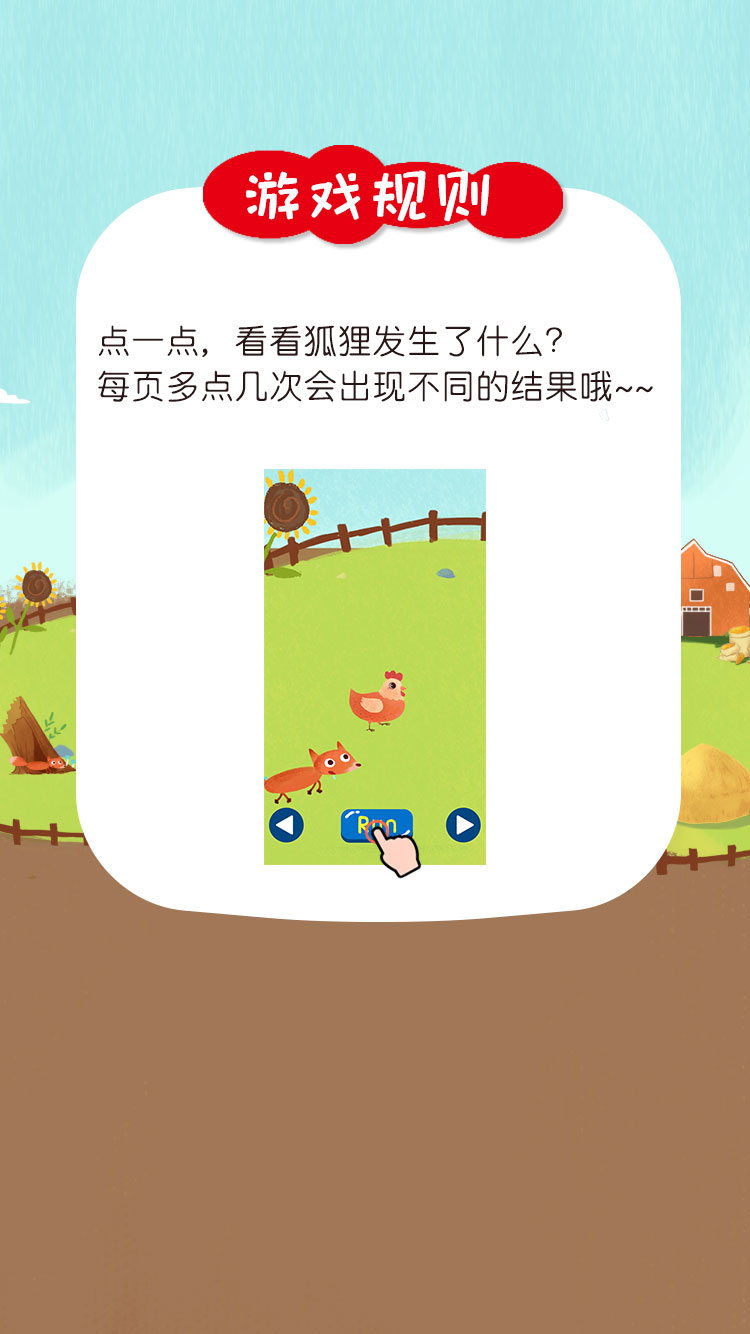
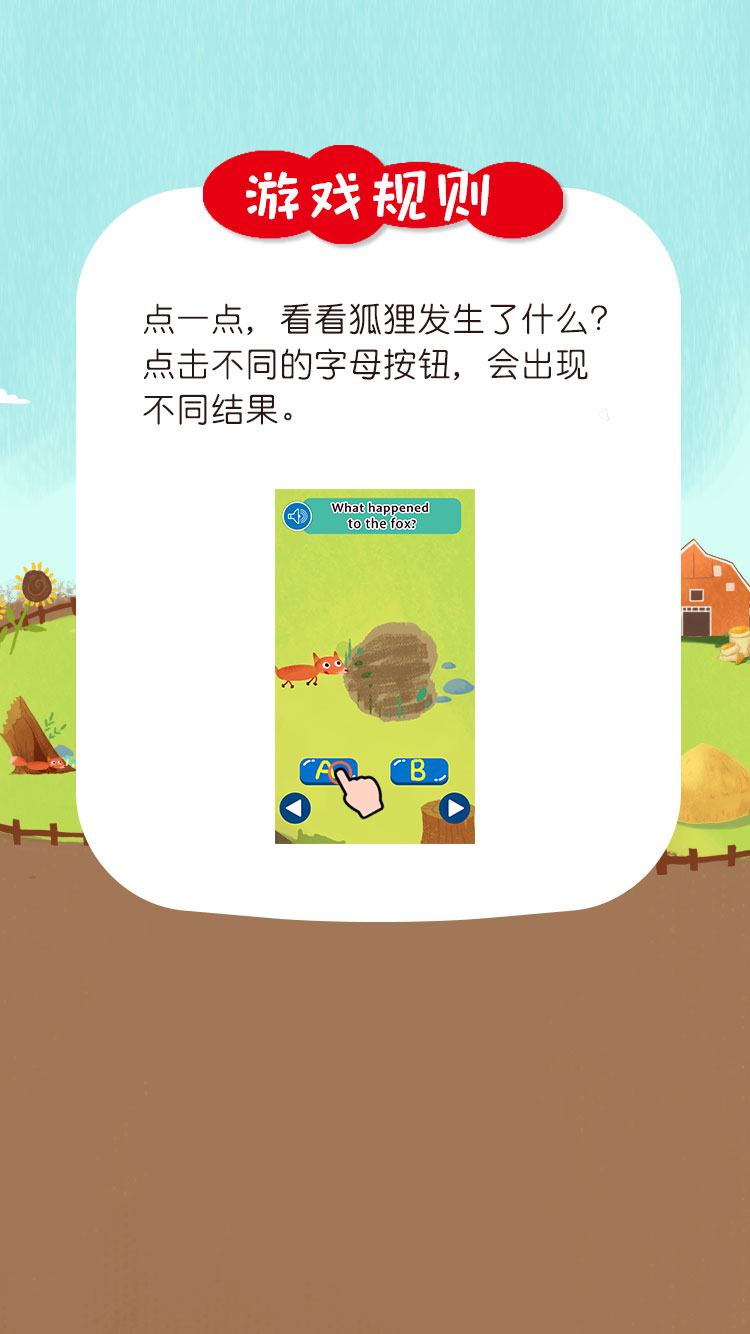
tenth commit

Changed region(s): [[0.1227, 0.2151, 0.828, 0.6762]]

diff --git a/js/index.js b/js/index.js
@@ -106,20 +106,7 @@ function toHome() {
 }
 
 //page02
-function wenhao() {
-    setTimeout(function(){
-        $('.wenhao').hide();
-    },0)
 
-    $('.page02fox').addClass('run_fox')
-    var random = Math.floor(Math.random()*2)
-    if(random==0){
-        drop()
-    }else if(random==1){
-        $('.page02fox').css({"left":"-3.2rem","bottom":"12rem"});
-        goout();
-    }
-}
 function drop() {
     $('.page02fox').hide();
     $('.dialog3').hide();
@@ -137,6 +124,7 @@ function goout() {
     $('.page02dropfox').hide();
     audio1.src = "audio/S3the fox went around the puddle.mp3";
     audio1.play();
+    $('.page02fox').addClass('run_fox');
     $('.page02fox').fadeIn('slow',function () {
         $('.page02fox').animate({left:'-1.5rem'},1000,function () {
             $('.page02fox').animate({bottom:'6rem'},1500,function () {
@@ -171,20 +159,38 @@ function toP3() {
         $('.page02fox').css({ "left":"-3.2rem","bottom":"12rem"})
     },1000)
 }
+$('.P2BtnA').click(function () {
+    $('.mock').css({"display":"block"});
+    drop();
+    setTimeout(function () {
+        $('.page02fox').show();
+        $('.page02fox').css({"left":"-3.2rem"});
+        $('.page02fox').removeClass('run_fox');
+        $('.dialog2').hide();
+        $('p1dialog1').show();
+        $('.page02dropfox').hide();
+        $('.mock').css({"display":"none"});
+    },3000)
+
+})
+$('.P2BtnB').click(function () {
+    $('.mock').css({"display":"block"});
+    goout();
+    setTimeout(function () {
+        $('.page02fox').show();
+        $('.page02fox').css({"left":"-3.2rem","bottom":"12rem"});
+        $('.page02fox').removeClass('run_fox');
+        $('.dialog3').hide();
+        $('.p1dialog1').show();
+        $('.page02dropfox').hide();
+        $('.mock').css({"display":"none"});
+    },5000)
+})
+
+
 
 //page03
-function p3wenhao() {
-    setTimeout(function () {
-        $('.wenhao').hide();
-    },0)
-    var random = Math.floor(Math.random()*2)
-    if(random==0){
-        gucang()
-    }else if(random==1){
-        $('.page03fox').css({"left":"-3.2rem","bottom":"8rem"});
-        leave();
-    }
-}
+
 function gucang() {
     $('.page03fox').addClass('run_fox');
     $('.page03fox').hide();
@@ -249,23 +255,35 @@ function toP4() {
         $('.fengfangfox2').hide();
     },1000)
 }
+$('.P3BtnA').click(function () {
+    $('.mock').css({"display":"block"});
+    gucang();
+    setTimeout(function () {
+        $('.page03fox').show();
+        $('.page03fox').css({"left":"-3.2rem"},{"bottom":"8rem"});
+        $('.page03fox').removeClass('run_fox');
+        $('.dialog5').hide();
+        $('.dialog1').show();
+        $('.gucangfox').hide();
+        $('.mock').css({"display":"none"});
+    },3000)
+
+})
+$('.P3BtnB').click(function () {
+    $('.mock').css({"display":"block"});
+    leave();
+    setTimeout(function () {
+        $('.page03fox').show();
+        $('.page03fox').css({"left":"-3.2rem","bottom":"8rem"});
+        $('.page03fox').removeClass('run_fox');
+        $('.dialog6').hide();
+        $('.dialog1').show();
+        $('.gucangfox').hide();
+        $('.mock').css({"display":"none"});
+    },5000)
+})
 
 //page4
-function p4wenhao() {
-    $('.fengfangwanzheng').hide();
-    $('.fengfangfox').hide();
-    $('.fengfangfox2').hide();
-    setTimeout(function () {
-        $('.wenhao').hide();
-    },0)
-    var random = Math.floor(Math.random()*2)
-    if(random==0){
-        fengfang()
-    }else if(random==1){
-        $('.page04fox').css({"right":"-4.7rem","top":"12rem"});
-        leaveout();
-    }
-}
 
 function fengfang() {
     $('.qiantui').hide();
@@ -275,6 +293,7 @@ function fengfang() {
     $('.dialog1').hide();
     $('.dialog8').hide();
     $('.fengfangwanzheng').show();
+    $('.fengfangfox2').hide();
     $('.fengfangfox2').show().animate({"right":"-1.5rem"},700,function () {
         $('.fengfangwanzheng').hide();
         $('.fengfangfox').show();
@@ -298,7 +317,7 @@ function leaveout() {
     audio1.src = "audio/S7the fox was under the beehive.mp3";
     audio1.play();
     $('.page04fox').fadeIn('slow',function () {
-        $('.page04fox').animate({"right":"3.3rem","top":"13.5rem"},1500).removeClass('run_Left_fox');
+        $('.page04fox').animate({"right":"3.3rem","top":"14.5rem"},1500).removeClass('run_Left_fox');
     })
     setTimeout(function () {
         $('.wenhao').show();
@@ -321,9 +340,51 @@ function backP3() {
 
     },1000)
 }
+
+$('.P4BtnA').click(function () {
+    $('.mock').css({"display":"block"});
+    fengfang();
+    setTimeout(function () {
+        $('.fengfangfox2').hide();
+        $('.page04fox').show();
+        $('.fengfangwanzheng').show();
+        $('.page04fox').css({"right":"-4.7rem"},{"bottom":"12rem"});
+        $('.page04fox').removeClass('run_Left_fox');
+        $('.dialog7').hide();
+        $('.dialog1').show();
+        $('.fengfangfox').hide();
+        $('.qiantui').hide();
+        $('.houtui').hide();
+        $('.fengfang').hide()
+        $('.mock').css({"display":"none"});
+    },3000)
+
+})
+$('.P4BtnB').click(function () {
+    $('.mock').css({"display":"block"});
+    leaveout();
+    setTimeout(function () {
+        $('.fengfangfox2').hide();
+        $('.page04fox').show();
+        $('.page04fox').css({"right":"-4.7rem"},{"bottom":"12rem"});
+        $('.fengfangwanzheng').show();
+        $('.page04fox').removeClass('run_Left_fox');
+        $('.dialog8').hide();
+        $('.dialog1').show();
+        $('.fengfangfox').hide();
+        $('.qiantui').hide();
+        $('.houtui').hide();
+        $('.fengfang').hide()
+        $('.fengfangfox').hide();
+        $('.mock').css({"display":"none"});
+    },4000)
+})
+
 function toEnd() {
     document.getElementsByClassName('bigbox')[0].style.marginTop = -aTop *6/ (aWidth / 16) + "rem";
     $('.smile').addClass("smiling-animate");
+    $("#audio1").attr("src", "http://live.babyfs.cn/web/H5/common/audio/finish0.mp3");
+    audio1.play();
 }
 
 $('.p1dialog1').click(function () {

diff --git a/index.html b/index.html
@@ -69,7 +69,10 @@
                     <img src="images/dialog3.png" alt="" class="dialog3">
                     <img src="images/BtnLeft.png" alt="" onclick="backP1()">
                     <img src="images/BtnRight.png" alt="" onclick="toP3()">
-                    <img src="images/BtnWenhao.png" alt="" class="wenhao" onclick="wenhao()">
+                    <!--<img src="images/BtnWenhao.png" alt="" class="wenhao" onclick="wenhao()">-->
+                    <img src="images/BthA.png" alt="" class="P2BtnA">
+                    <img src="images/BtnB.png" alt="" class="P2BtnB">
+                    <span class="mock"></span>
                 </li>
             </ul>
         </div>
@@ -87,7 +90,10 @@
                     <img src="images/dialog6.png" alt="" class="dialog6">
                     <img src="images/BtnLeft.png" alt="" onclick="backP2()">
                     <img src="images/BtnRight.png" alt="" onclick="toP4()">
-                    <img src="images/BtnWenhao.png" alt="" class="wenhao" onclick="p3wenhao()">
+                    <!--<img src="images/BtnWenhao.png" alt="" class="wenhao" onclick="p3wenhao()">-->
+                    <img src="images/BthA.png" alt="" class="P3BtnA">
+                    <img src="images/BtnB.png" alt="" class="P3BtnB">
+                    <span class="mock"></span>
                 </li>
             </ul>
         </div>
@@ -108,9 +114,13 @@
                     <img src="images/dialog8.png" alt="" class="dialog8">
                     <img src="images/BtnLeft.png" alt="" onclick="backP3()">
                     <img src="images/BtnRight.png" alt="" onclick="toEnd()">
-                    <img src="images/BtnWenhao.png" alt="" onclick="p4wenhao()" class="wenhao">
+                    <!--<img src="images/BtnWenhao.png" alt="" onclick="p4wenhao()" class="wenhao">-->
                     <img src="images/fengfangfox2.png" alt="" class="fengfangfox2">
                     <img src="images/fengfangwanzheng.png" alt="" class="fengfangwanzheng">
+                    <img src="images/BthA.png" alt="" class="P4BtnA">
+                    <img src="images/BtnB.png" alt="" class="P4BtnB">
+                    <span class="mock"></span>
+
                 </li>
             </ul>
         </div>

diff --git a/css/index.css b/css/index.css
@@ -315,12 +315,18 @@ img{
     right:.5rem;
 }
 .page02 img:nth-child(8){
-    width: 5.5rem;
-    height: 3.7rem;
+    width: 28.9%;
+    height: 7.6%;
     position: absolute;
-    bottom:0.2rem;
-    left:50%;
-    margin-left:-2.75rem;
+    top:75.8%;
+    left:12.7%;
+}
+.page02 img:nth-child(9){
+    width: 28.9%;
+    height: 7.6%;
+    position: absolute;
+    top:75.8%;
+    right:12.7%;
 }
 .page02fox{
     width: 10.2rem;
@@ -411,12 +417,18 @@ img{
     right:.5rem;
 }
 .page03 img:nth-child(8){
-    width: 5.5rem;
-    height: 3.7rem;
+    width: 28.9%;
+    height: 7.6%;
     position: absolute;
-    bottom:0.2rem;
-    left:50%;
-    margin-left:-2.75rem;
+    top:75.8%;
+    left:12.7%;
+}
+.page03 img:nth-child(9){
+    width: 28.9%;
+    height: 7.6%;
+    position: absolute;
+    top:75.8%;
+    right:12.7%;
 }
 .page03fox{
     width: 10.2rem;
@@ -539,15 +551,8 @@ img{
     bottom:1.5rem;
     right:.5rem;
 }
+
 .page04 img:nth-child(11){
-    width: 5.5rem;
-    height: 3.7rem;
-    position: absolute;
-    bottom:0.2rem;
-    left:50%;
-    margin-left:-2.75rem;
-}
-.page04 img:nth-child(12){
     width: 8rem;
     height: 5rem;
     position: absolute;
@@ -555,13 +560,27 @@ img{
     top:12rem;
     display: none;
 }
-.page04 img:nth-child(13){
+.page04 img:nth-child(12){
     width:9.9rem;
     height: 37%;
     position: absolute;
     left:3.3rem;
     top:35%;
     display: none;
+}
+.page04 img:nth-child(13){
+    width: 28.9%;
+    height: 7.6%;
+    position: absolute;
+    top:75.8%;
+    left:12.7%;
+}
+.page04 img:nth-child(14){
+    width: 28.9%;
+    height: 7.6%;
+    position: absolute;
+    top:75.8%;
+    right:12.7%;
 }
 .page04fox{
     width: 8rem;
@@ -698,7 +717,15 @@ img{
     }
 }
 
-
+.page .mock{
+    width: 74%;
+    height: 8.7%;
+    opacity: 0;
+    position: absolute;
+    top: 75.8%;
+    left:12.7%;
+    display:none;
+}
 
 
 
